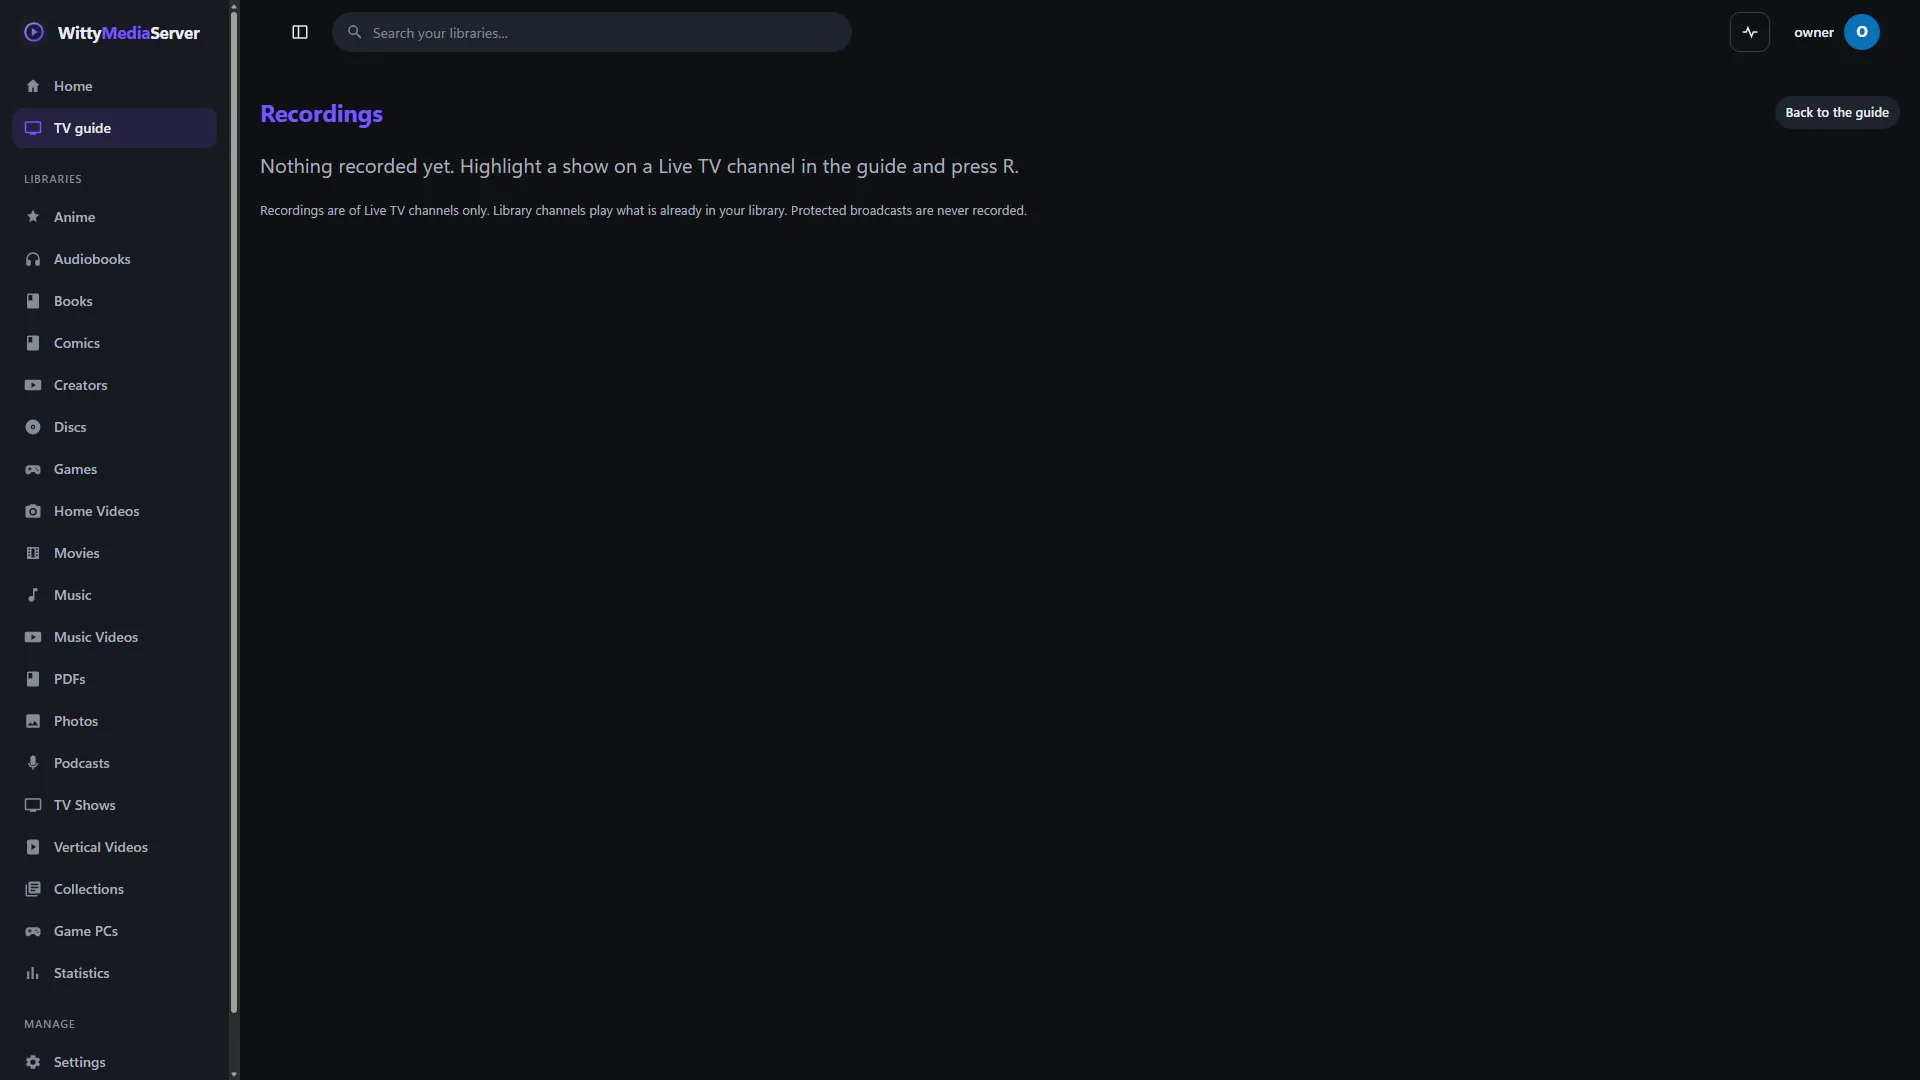
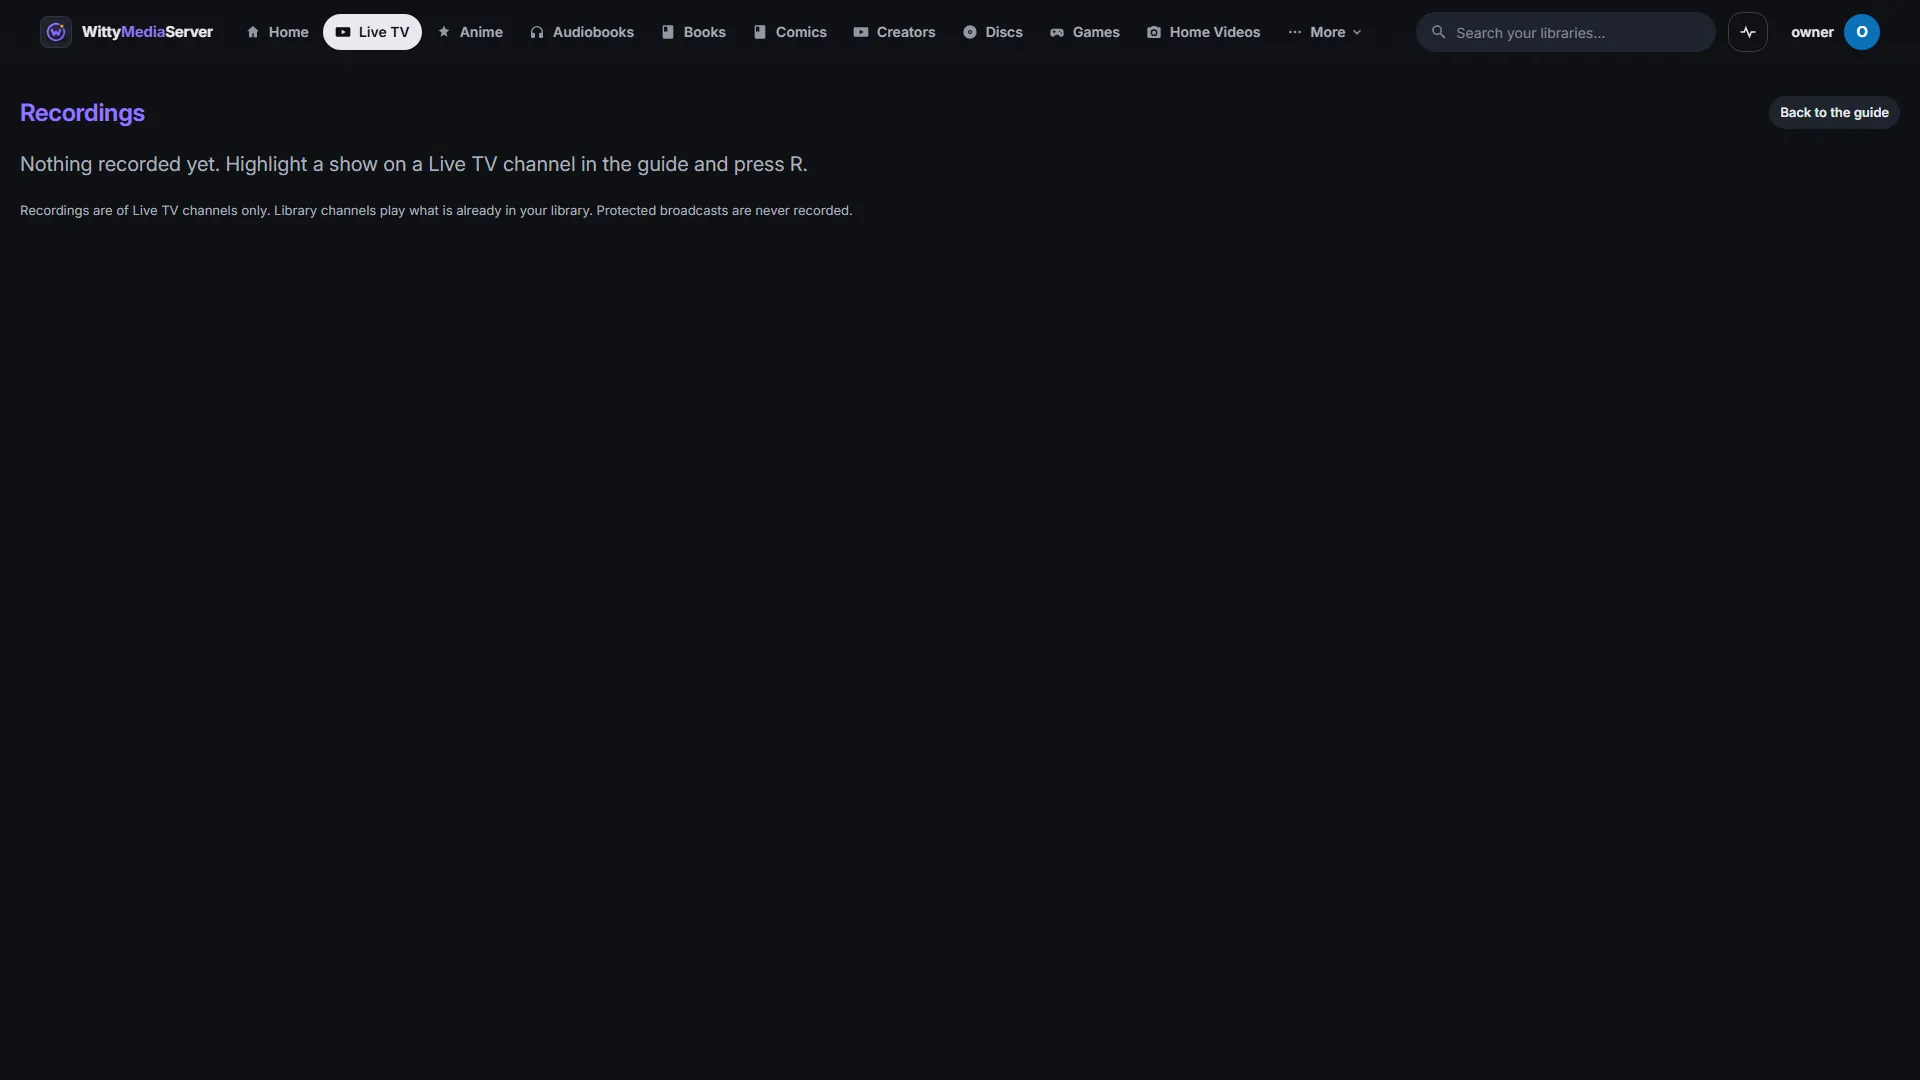
README: guide and recordings pictures retaken (#10) (#11)

diff --git a/docs/images/CREDITS.md b/docs/images/CREDITS.md
@@ -4,6 +4,6 @@ Pictures taken from a test server of WittyMediaServer, filled with openly licens
 
 | Picture | What it shows |
 |---|---|
-| `wittytv-guide.webp` | The guide, here with channels made from a library, playing [Caminandes: Llamigos](https://commons.wikimedia.org/wiki/File:Caminandes_3_-_Llamigos_-_Blender_Animated_Short.webm), Pablo Vazquez, Blender Foundation, [CC BY 3.0](https://creativecommons.org/licenses/by/3.0/). From a test server. The server's [credits list](https://github.com/wittywilla/WittyMediaServer/blob/master/docs/images/CREDITS.md) names everything shown. |
+| `wittytv-guide.webp` | The guide, here with channels made from a library, playing [Aladdin and His Wonderful Lamp](https://commons.wikimedia.org/wiki/File:Aladdin_And_His_Wonderful_Lamp_(1939).webm), Dave Fleischer, Fleischer Studios, 1939, public domain. From a test server. The server's [credits list](https://github.com/wittywilla/WittyMediaServer/blob/master/docs/images/CREDITS.md) names everything shown. |
 | `settings-channels.webp` | Settings, Channels & tuners, on a server with no tuner attached. |
 | `wittytv-recordings.webp` | Recordings, on a server with none yet. |

diff --git a/README.md b/README.md
@@ -8,7 +8,7 @@ It's a module of [WittyMediaServer](https://github.com/wittywilla/WittyMediaServ
 
 ![The programme guide, with a film playing in the preview](docs/images/wittytv-guide.webp)
 
-<sub>The guide, here with channels made from a library, playing [Caminandes: Llamigos](https://commons.wikimedia.org/wiki/File:Caminandes_3_-_Llamigos_-_Blender_Animated_Short.webm), Pablo Vazquez, Blender Foundation, [CC BY 3.0](https://creativecommons.org/licenses/by/3.0/). From a test server. The server's [credits list](https://github.com/wittywilla/WittyMediaServer/blob/master/docs/images/CREDITS.md) names everything shown.</sub>
+<sub>The guide, here with channels made from a library, playing [Aladdin and His Wonderful Lamp](https://commons.wikimedia.org/wiki/File:Aladdin_And_His_Wonderful_Lamp_(1939).webm), Dave Fleischer, Fleischer Studios, 1939, public domain. From a test server. The server's [credits list](https://github.com/wittywilla/WittyMediaServer/blob/master/docs/images/CREDITS.md) names everything shown.</sub>
 
 ![The channels and tuners page in Settings](docs/images/settings-channels.webp)
 

diff --git a/CHANGELOG.md b/CHANGELOG.md
@@ -3,6 +3,10 @@
 What changed in WittyTuner, newest first. What changed before it had a repository of its own is in the
 [WittyMediaServer changelog](https://github.com/wittywilla/WittyMediaServer/blob/master/CHANGELOG.md).
 
+## 0.4.2
+
+- The README's guide and recordings pictures are retaken: two channels with schedules of their own, and longer programmes in the guide.
+
 ## 0.4.1
 
 - The README's pictures are retaken from WittyMediaServer 0.8.0-alpha.
